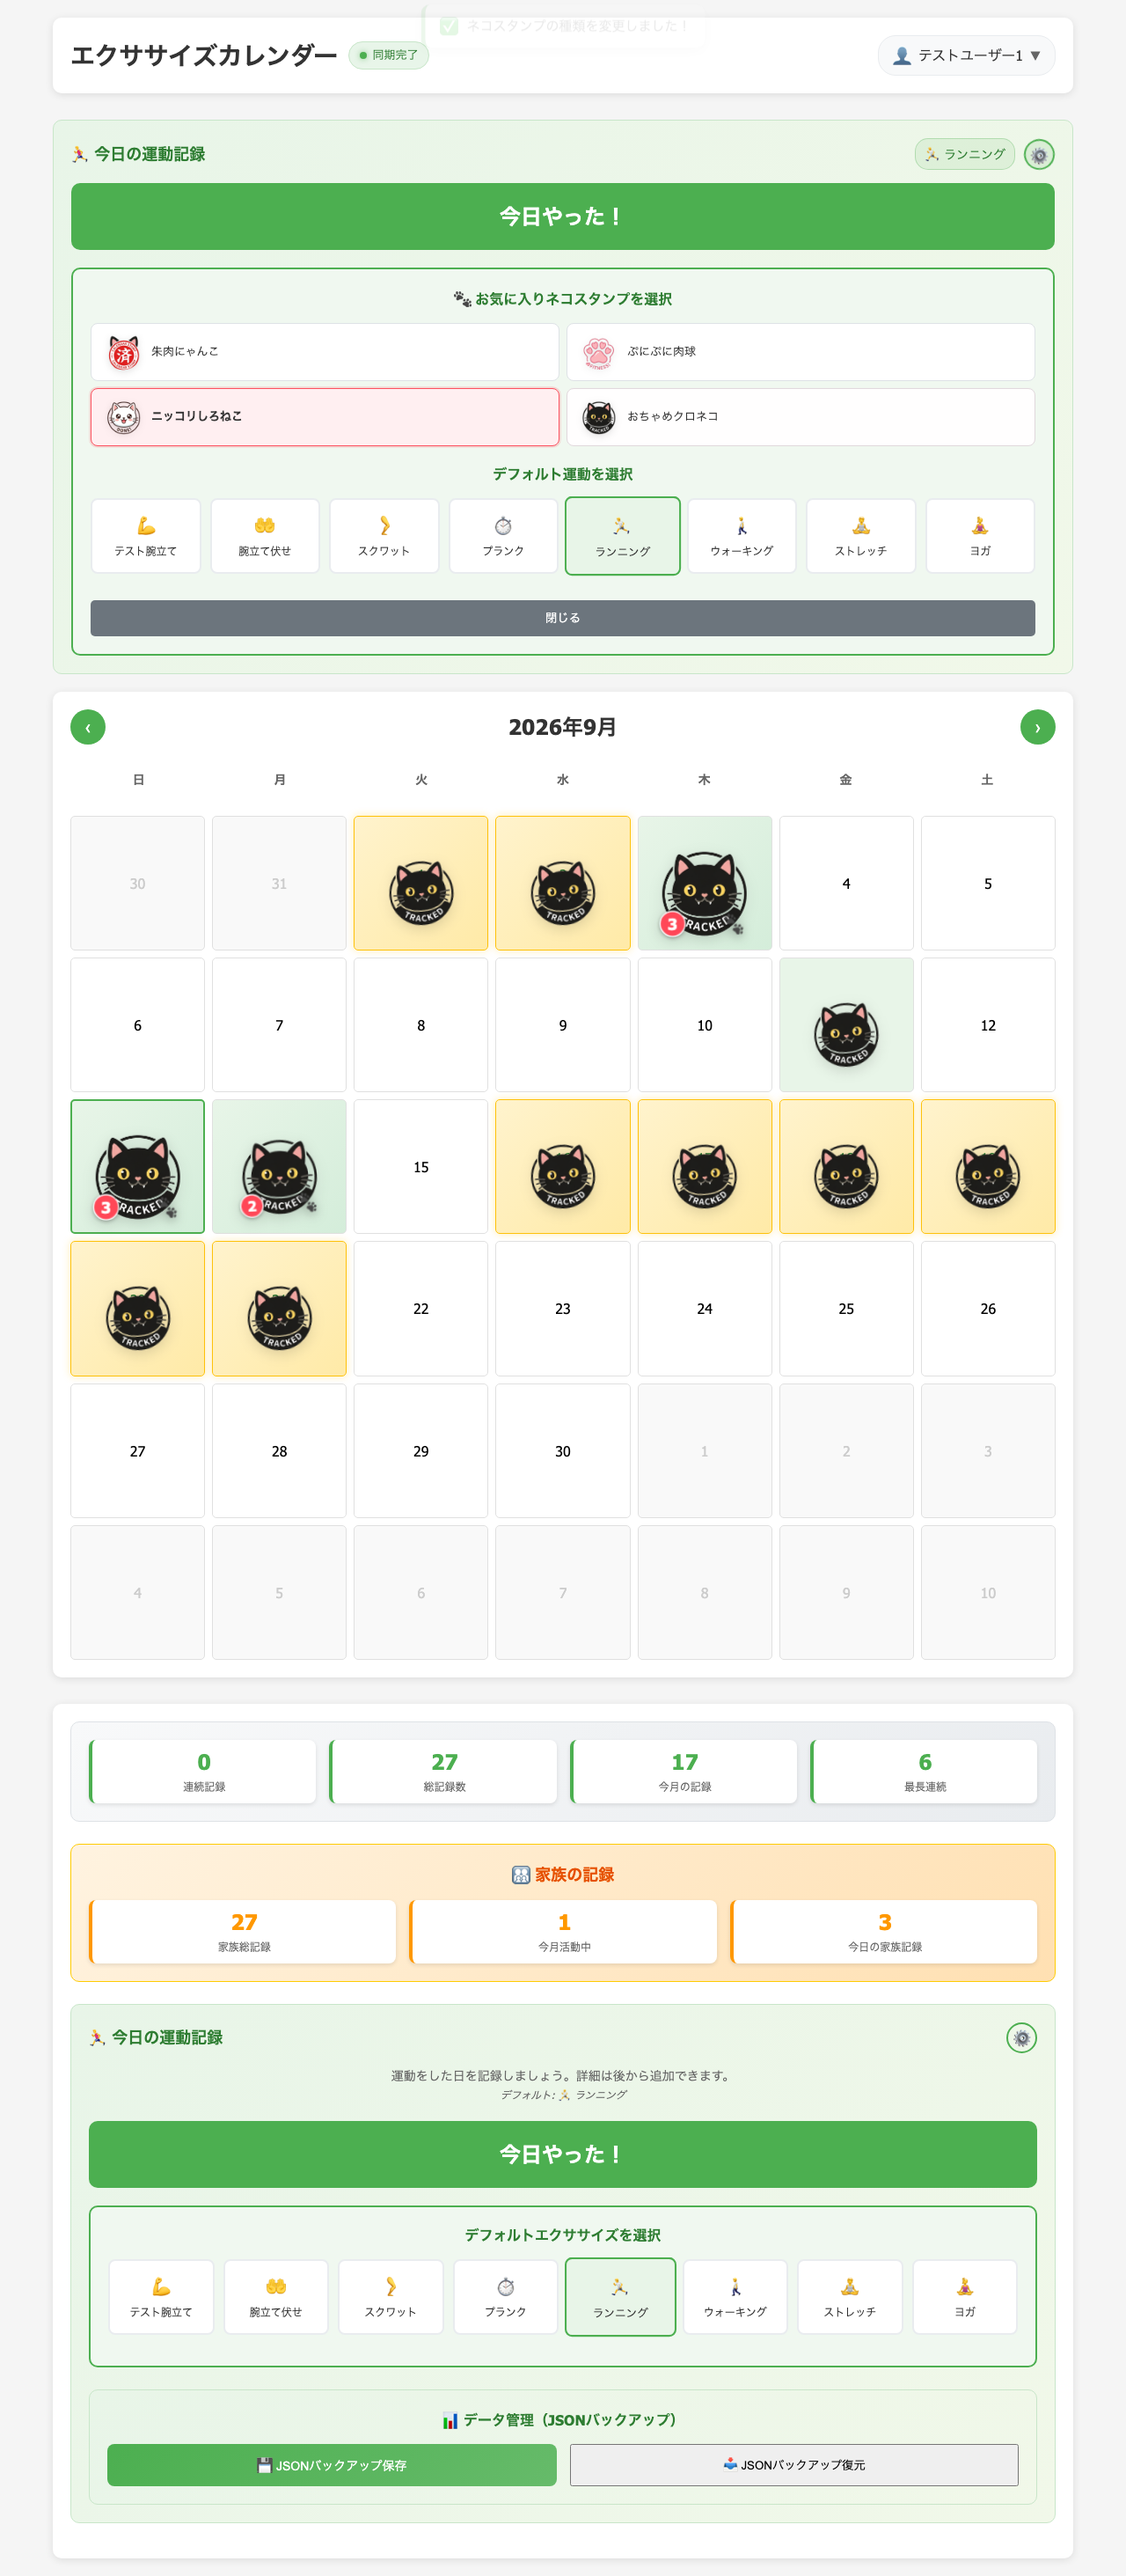
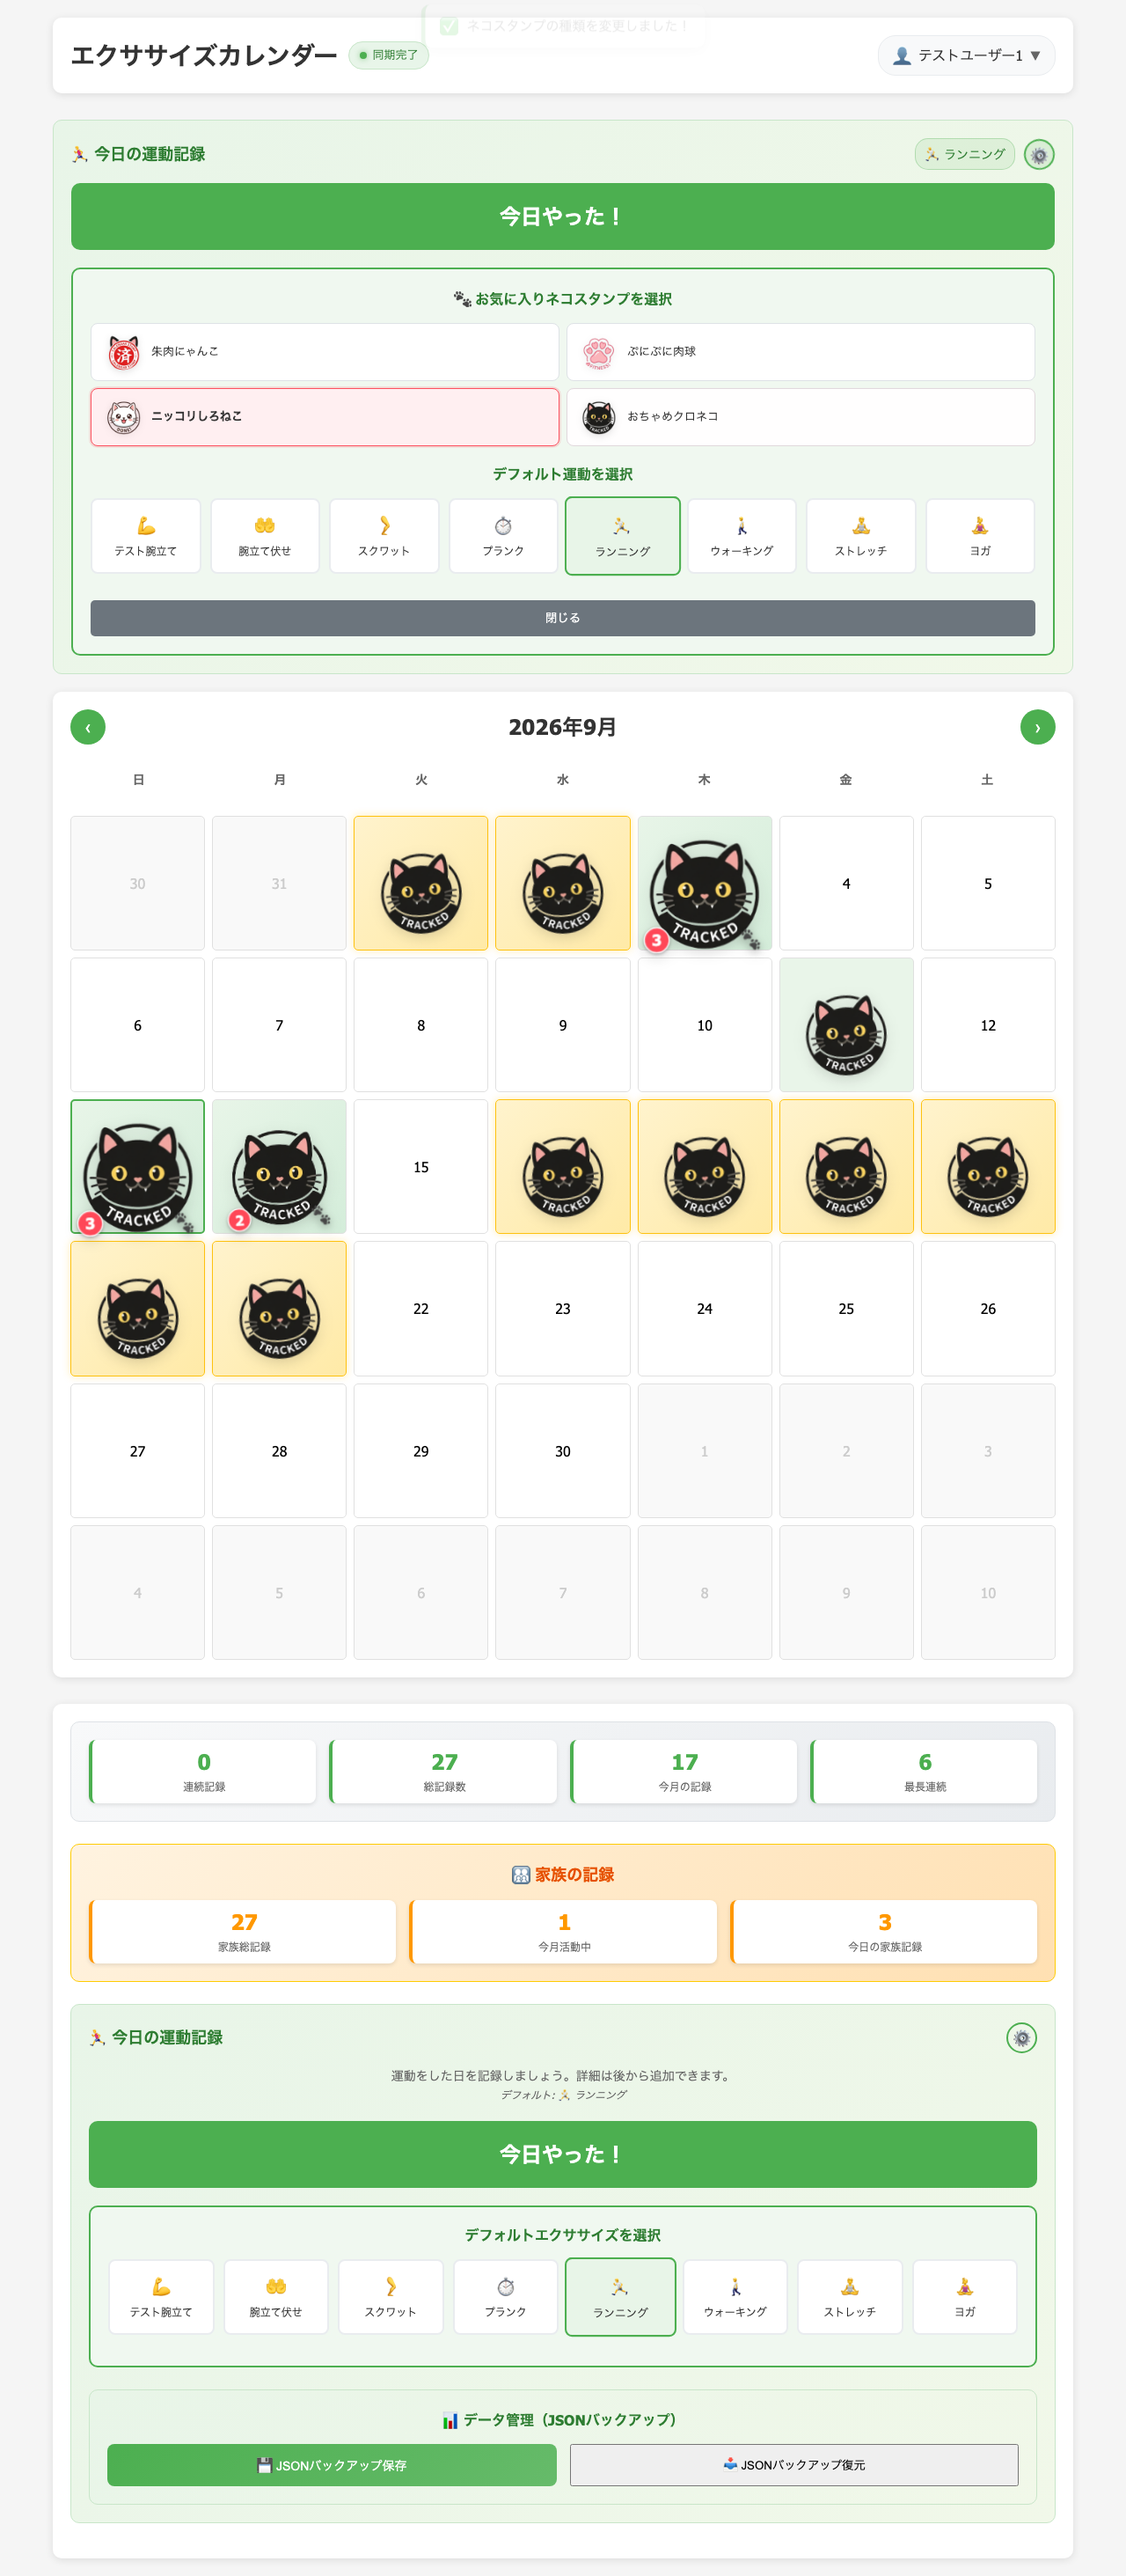
feat: boldly enlarge cat stamp sizes to exceed calendar day borders

diff --git a/public/style.css b/public/style.css
@@ -421,8 +421,8 @@ body {
   top: 50%;
   left: 50%;
   transform: translate(-50%, -50%) rotate(-8deg);
-  width: 72px;
-  height: 72px;
+  width: 90px;
+  height: 90px;
   display: flex;
   align-items: center;
   justify-content: center;
@@ -495,8 +495,8 @@ body {
 
 /* 2回記録時のスタンプ（ラージ） */
 .stamp-done.stamp-large {
-  width: 82px;
-  height: 82px;
+  width: 105px;
+  height: 105px;
   font-size: 19px;
   border-width: 3.2px;
   transform: translate(-50%, -50%) rotate(-8deg);
@@ -555,8 +555,8 @@ body {
 
 /* 3つ以上のエクササイズ用の特大サイズ（エクストララージ） */
 .stamp-done.stamp-xlarge {
-  width: 92px;
-  height: 92px;
+  width: 120px;
+  height: 120px;
   font-size: 23px;
   border-width: 3.6px;
   transform: translate(-50%, -50%) rotate(-5deg);
@@ -1406,8 +1406,8 @@ body {
 
   /* iPadでのネコスタンプサイズ */
   .stamp-done {
-    width: 46px;
-    height: 46px;
+    width: 75px;
+    height: 75px;
     font-size: 18px;
     border-width: 3.2px;
   }
@@ -1431,15 +1431,15 @@ body {
   }
 
   .stamp-done.stamp-large {
-    width: 52px;
-    height: 52px;
+    width: 88px;
+    height: 88px;
     font-size: 21px;
     border-width: 3.6px;
   }
 
   .stamp-done.stamp-xlarge {
-    width: 58px;
-    height: 58px;
+    width: 100px;
+    height: 100px;
     font-size: 24px;
     border-width: 4px;
   }
@@ -1545,8 +1545,8 @@ body {
 
   /* 可愛いネコスタンプのモバイル調整 */
   .stamp-done {
-    width: 30px;
-    height: 30px;
+    width: 60px;
+    height: 60px;
     font-size: 12px;
     border-width: 2.4px;
     color: #ff4757;
@@ -1600,15 +1600,15 @@ body {
   }
 
   .stamp-done.stamp-large {
-    width: 35px;
-    height: 35px;
+    width: 70px;
+    height: 70px;
     font-size: 14px;
     border-width: 2.6px;
   }
 
   .stamp-done.stamp-xlarge {
-    width: 42px;
-    height: 42px;
+    width: 80px;
+    height: 80px;
     font-size: 17px;
     border-width: 3px;
   }
@@ -1765,8 +1765,8 @@ body {
 
   /* 超小画面用のネコスタンプ調整 */
   .stamp-done {
-    width: 26px;
-    height: 26px;
+    width: 50px;
+    height: 50px;
     font-size: 11px;
     border-width: 2px;
     color: #ff4757;

diff --git a/public/sw.js b/public/sw.js
@@ -1,4 +1,4 @@
-const CACHE_NAME = 'exercise-calendar-v13'
+const CACHE_NAME = 'exercise-calendar-v14'
 const urlsToCache = [
   '/',
   '/index.html',
